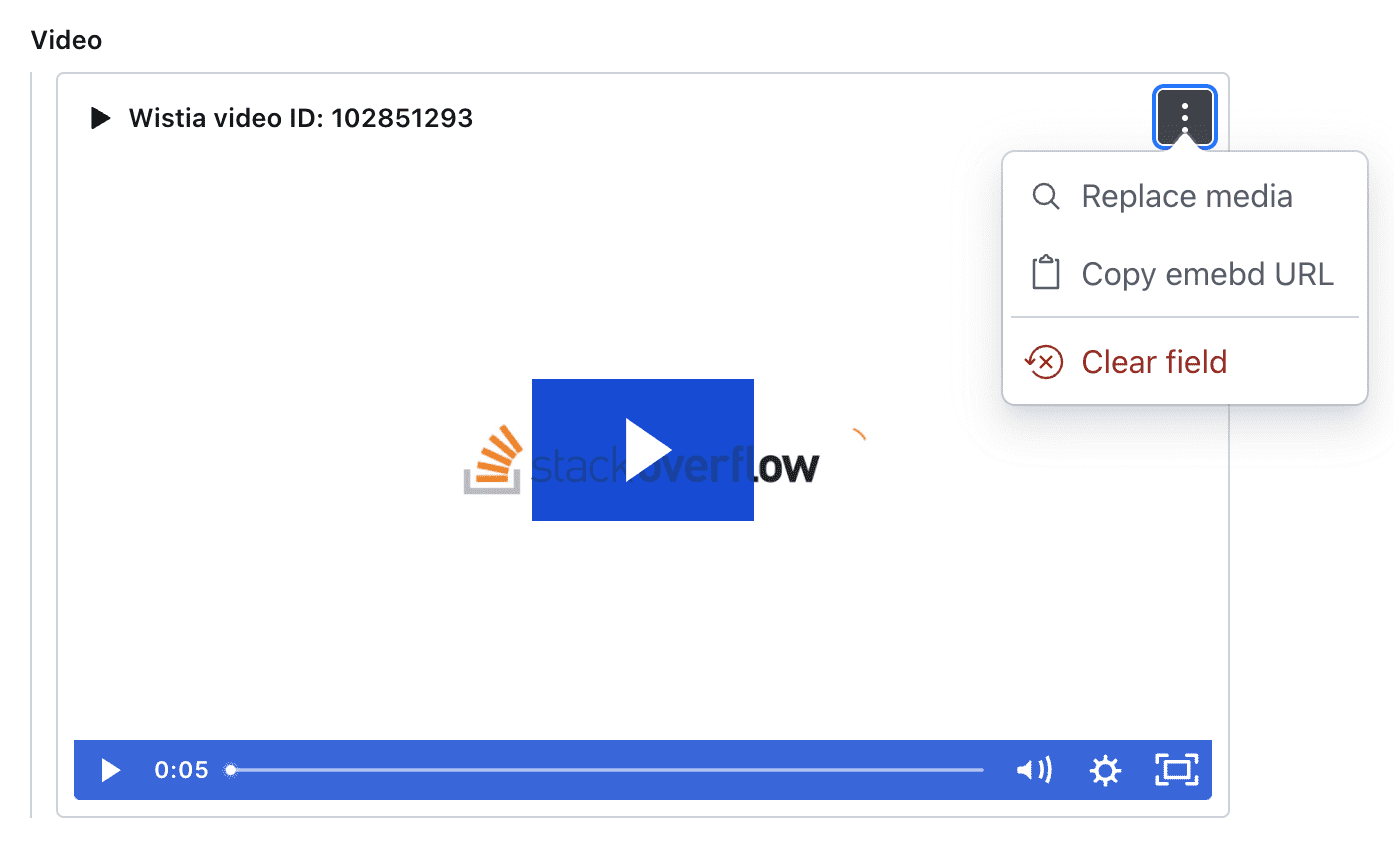
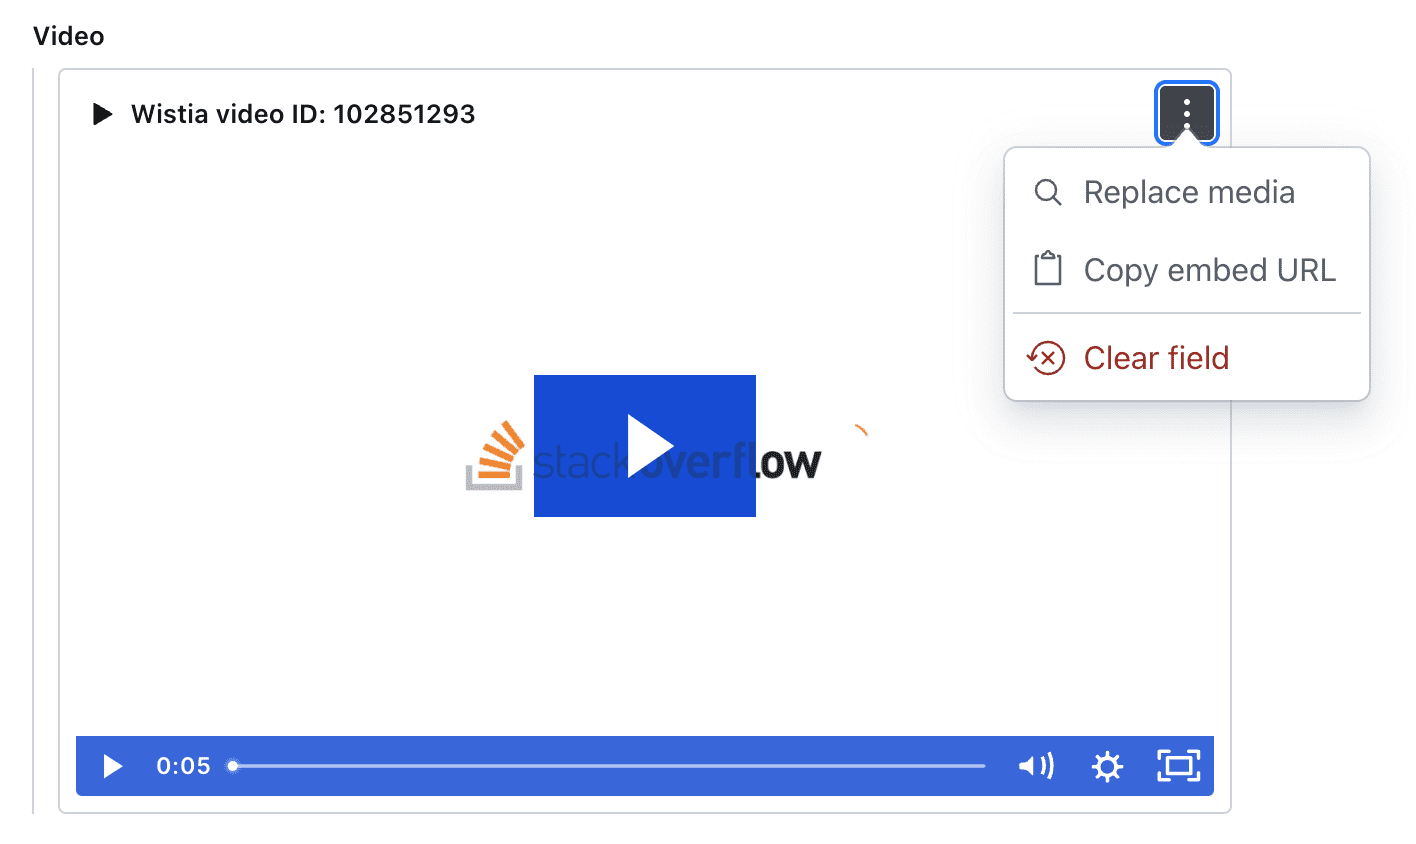
fix spelling

diff --git a/src/components/AssetMenu.tsx b/src/components/AssetMenu.tsx
@@ -29,7 +29,7 @@ export function AssetMenu({
             }}
           />
           <MenuItem
-            text="Copy emebd URL" 
+            text="Copy embed URL" 
             icon={ClipboardIcon}
             onClick={() => {
               onAction({ type: 'copyUrl' })
